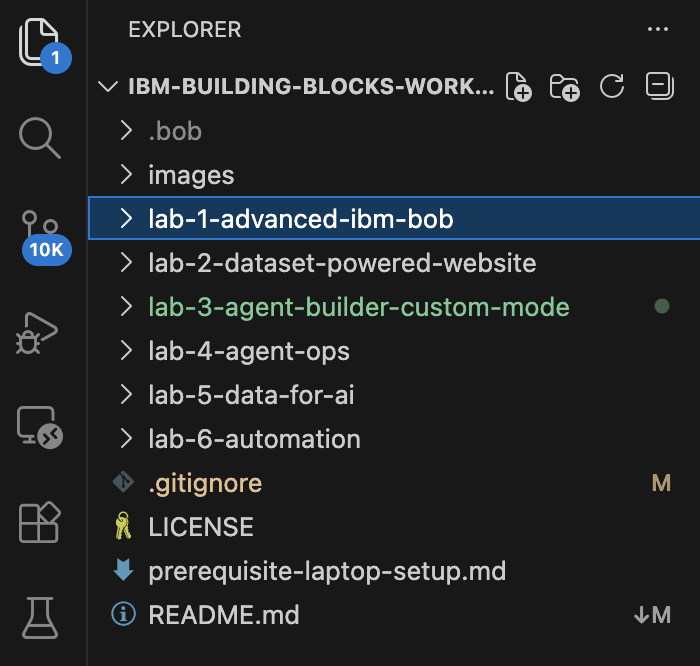
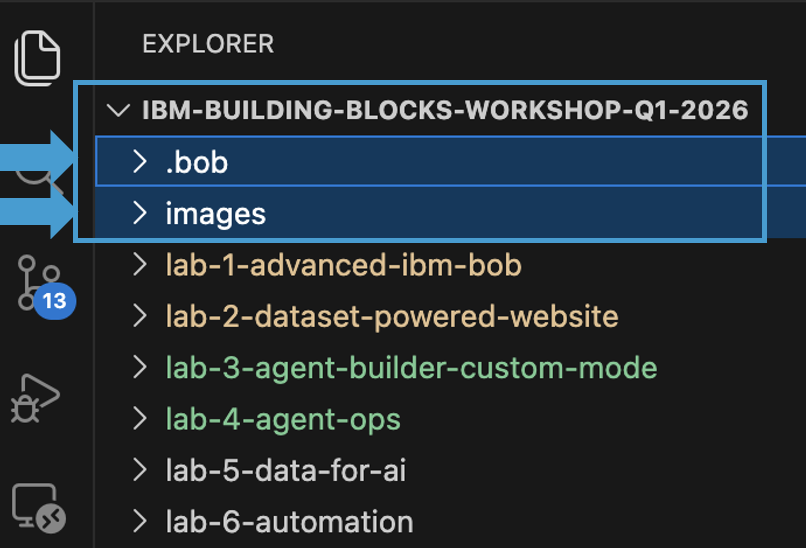
updates from workshop lessons

diff --git a/lab-1-advanced-ibm-bob/lab-1.1.md b/lab-1-advanced-ibm-bob/lab-1.1.md
@@ -19,9 +19,18 @@ If you're doing this lab in a workshop with others, please take time to help tho
 You'll spend the next several minutes configuring Bob to use Advanced Mode.  Rather than tell you to do that without explaining why, we'll explore the other mode's available to Bob, the tools they contain plus their sub-tools and hidden tools. 
 
 ### 1.1 Open the entire workshop folder as your main Workspace in IBM Bob
-To ensure consistency when working through this workshop, we highly recommend that you open the entire workshop folder as your main Workspace in IBM Bob.  If you do so, the Files panel in Bob will look like below. 
+To ensure consistency when working through this workshop, you must open the workshop folder as your main Workspace in IBM Bob.  Do this by dragging-and-dropping the workshop folder onto   the IBM Bob icon, or use `File > Open Folder` then select the workshop folder.
 
-**Note:** The Files panel is accessed by clicking the Files icon in the top-left of IBM Bob's windows.  
+**Note:** Bob's file Explorer panel is accessed by clicking the file Explorer icon in the top-left of IBM Bob's windows.  
+
+Once properly configured, the File Explorer panel in Bob will look like below. 
+
+1. The top folder visible in Bob's file panel should be the workshop folder.
+2. The 1st sub-folder will be `.bob`
+3. The 2nd sub-folder will be `images`
+
+#### Why is this required?
+When IBM Bob opens, it looks for the `.bob` folder at the root of your Workspace.  If one is not present, Bob will create a `.bob` folder.  During this workshop, you will be addind/removing folders and files from this `.bob` folder.
 
 <img src="images/workshop-as-workspace.png" width="400">
 

diff --git a/lab-2-dataset-powered-website/lab-2.2.md b/lab-2-dataset-powered-website/lab-2.2.md
@@ -157,7 +157,7 @@ Yay! Let's build your website.
 
 1. Select the **Data Website Builder** mode in the Chat window 
 
-⚠ **NOTE:** In the prompt of the next step, ensure the folder path of your website template matches your own prior to submitting! Updated references to `lab-2-dataset-powered-website/acme-analytics` if needed. 
+⚠ **NOTE:** In the prompt of the next step, ensure the folder path of your website template matches your own prior to submitting! Update references to `lab-2-dataset-powered-website/acme-analytics` if needed. 
 
 1. Read through this prompt thoroughly then submit it to Bob.  
 ```
